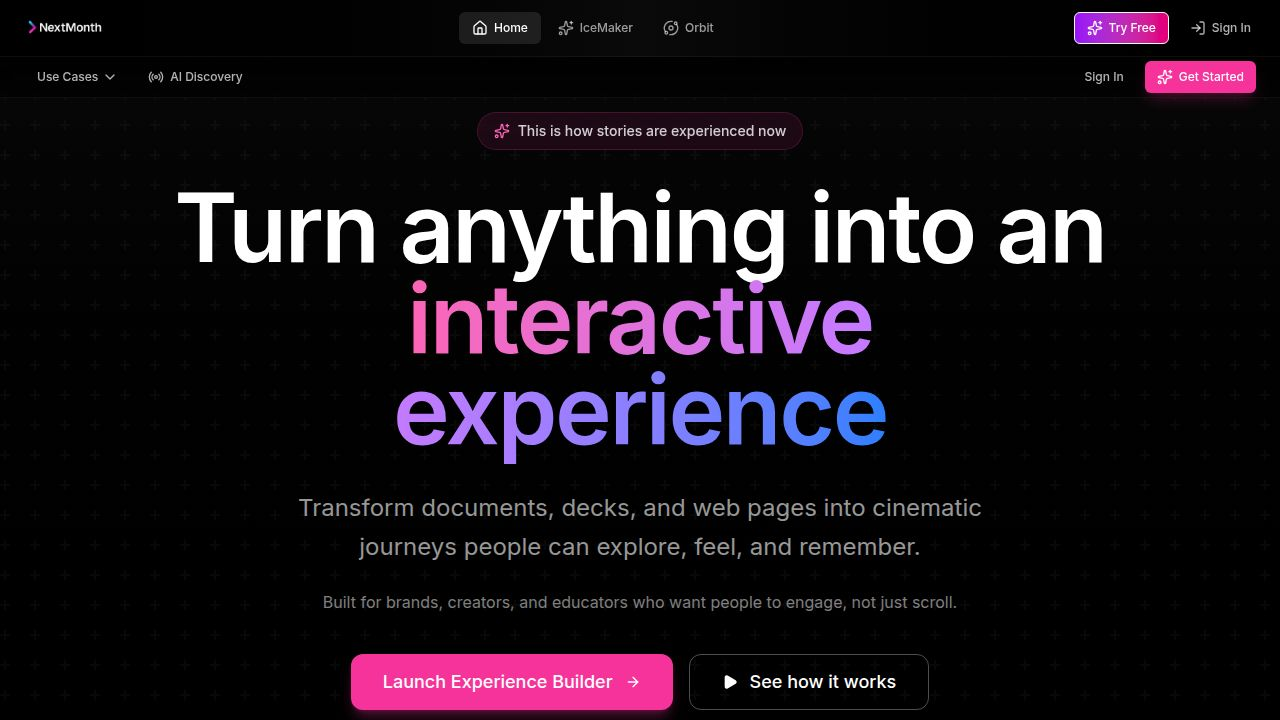
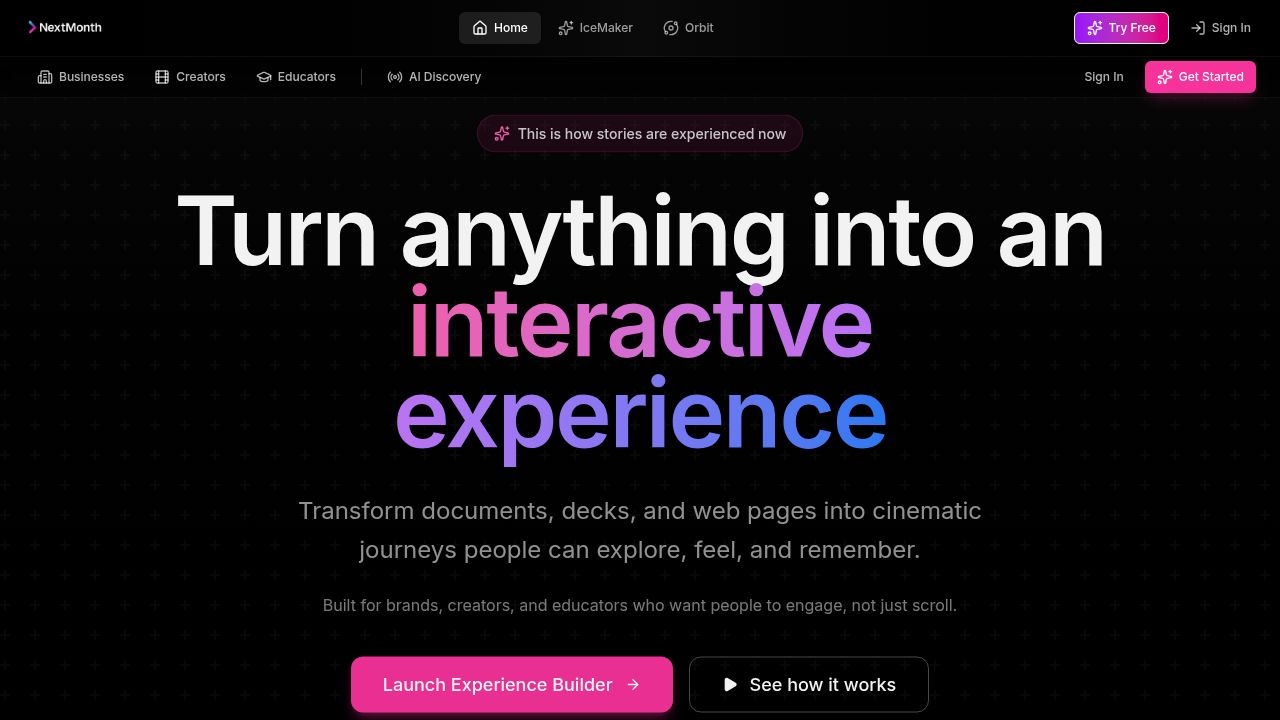
Add navigation links for businesses, creators, and educators to the mobile menu
Updates the GlobalNav component to include new audience-specific links (Businesses, Creators, Educators) in the mobile navigation menu, accessible when the context is 'marketing'. Imports new icons (Building2, Film, GraduationCap) from lucide-react for these links.

Replit-Commit-Author: Agent
Replit-Commit-Session-Id: fb00d803-8947-4ab8-8f15-8e677df736ff
Replit-Commit-Checkpoint-Type: full_checkpoint
Replit-Commit-Event-Id: 970bdccb-0bf2-4c38-927b-e092e9c4d01a
Replit-Commit-Screenshot-Url: https://storage.googleapis.com/screenshot-production-us-central1/db2f1482-214b-4ebb-9679-8d6c9b494d85/fb00d803-8947-4ab8-8f15-8e677df736ff/WbtnuZq
Replit-Helium-Checkpoint-Created: true

diff --git a/client/src/components/GlobalNav.tsx b/client/src/components/GlobalNav.tsx
@@ -9,7 +9,10 @@ import {
   User,
   ChevronDown,
   Menu,
-  X
+  X,
+  Building2,
+  Film,
+  GraduationCap
 } from "lucide-react";
 import { useState } from "react";
 import { useAuth } from "@/lib/auth";
@@ -67,6 +70,12 @@ export default function GlobalNav({
     { href: '/', label: 'Home', icon: Home, context: 'marketing' as NavContext },
     { href: '/icemaker', label: 'IceMaker', icon: Sparkles, context: 'ice' as NavContext },
     { href: '/orbit', label: 'Orbit', icon: Orbit, context: 'orbit' as NavContext },
+  ];
+
+  const audienceLinks = [
+    { href: '/for/business', label: 'For Businesses', icon: Building2 },
+    { href: '/for/creators', label: 'For Creators', icon: Film },
+    { href: '/for/educator', label: 'For Educators', icon: GraduationCap },
   ];
   
   const showTryFree = !user && context === 'marketing';
@@ -236,6 +245,24 @@ export default function GlobalNav({
               </Link>
             );
           })}
+          
+          {context === 'marketing' && (
+            <>
+              <div className="border-t border-white/10 my-2" />
+              {audienceLinks.map((link) => (
+                <Link key={link.href} href={link.href}>
+                  <div 
+                    className="flex items-center gap-3 px-3 py-2 rounded-lg text-white/70 hover:text-white hover:bg-white/10 cursor-pointer"
+                    onClick={() => setMobileMenuOpen(false)}
+                    data-testid={`global-mobile-${link.href.split('/').pop()}`}
+                  >
+                    <link.icon className="w-4 h-4" />
+                    {link.label}
+                  </div>
+                </Link>
+              ))}
+            </>
+          )}
         </div>
       )}
     </header>
